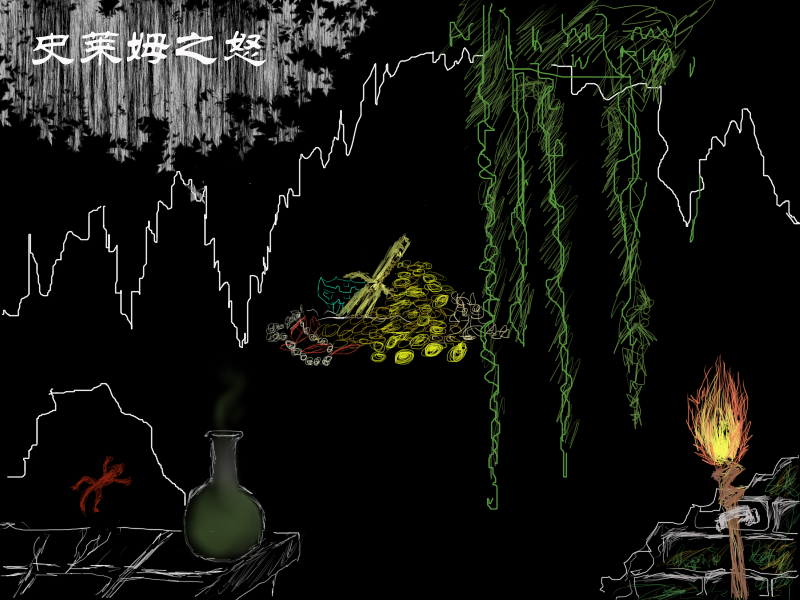
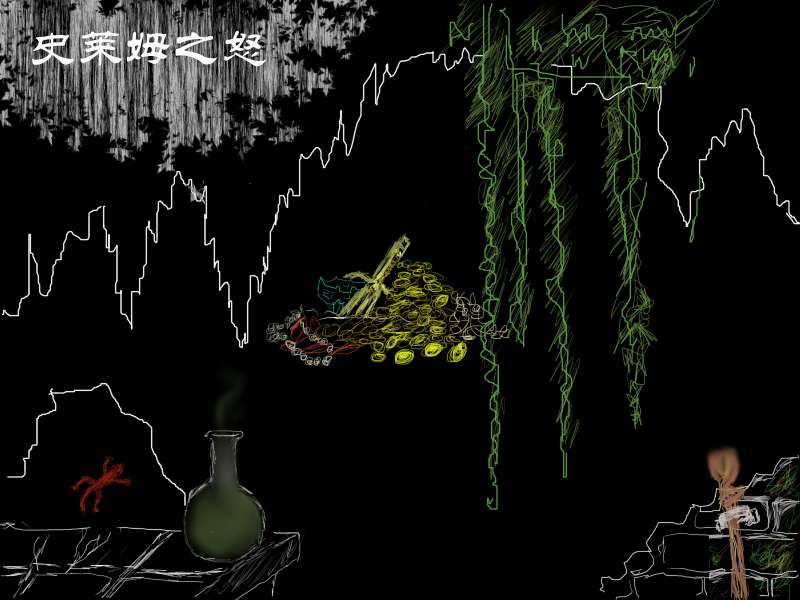
fire

Changed region(s): [[0.8438, 0.6, 0.9375, 0.81], [0.7812, 0.87, 0.875, 1.0]]

diff --git a/core/src/com/slime/game/screen/StartScreen.java b/core/src/com/slime/game/screen/StartScreen.java
@@ -5,24 +5,21 @@ import com.badlogic.gdx.Screen;
 import com.badlogic.gdx.graphics.Texture;
 import com.badlogic.gdx.graphics.g2d.ParticleEffect;
 import com.badlogic.gdx.graphics.g2d.ParticleEffectPool;
-import com.badlogic.gdx.graphics.g2d.SpriteBatch;
 import com.badlogic.gdx.graphics.g2d.TextureAtlas;
 import com.badlogic.gdx.scenes.scene2d.Stage;
 import com.badlogic.gdx.scenes.scene2d.ui.Image;
 import com.badlogic.gdx.scenes.scene2d.ui.ImageButton;
 import com.badlogic.gdx.scenes.scene2d.utils.TextureRegionDrawable;
+import com.slime.game.actor.ParticleActor;
 
 public class StartScreen implements Screen{
 	private Stage stage;
 	private TextureAtlas atlas_button;
 	private ImageButton ib_start;
 	private Image background;
-	private float scalewidth=1.0f,scaleheight=1.0f;
-	public static final float W = 800;
-	public static final float H = 600;
 	private ParticleEffect effect;
 	private ParticleEffectPool effectPool;
-	private SpriteBatch spriteBatch;
+	private ParticleActor torch;
 
 	@Override
 	public void show() {
@@ -30,35 +27,30 @@ public class StartScreen implements Screen{
 		TextureRegionDrawable imageUp = new TextureRegionDrawable(atlas_button.findRegion("button_start_normal"));
 		TextureRegionDrawable imageDown = new TextureRegionDrawable(atlas_button.findRegion("button_start_pressed"));
 		ib_start = new ImageButton(imageUp, imageDown);
-		ib_start.setPosition((Gdx.graphics.getWidth()/2-75)*scalewidth, 100*scaleheight);
+		ib_start.setPosition(Gdx.graphics.getWidth()/2-75, 100);
 		background = new Image(new Texture(Gdx.files.internal("images/start_bg.png")));
 		stage = new Stage();
 		Gdx.input.setInputProcessor(stage);
 		stage.addActor(background);
 		stage.addActor(ib_start);
-		spriteBatch = new SpriteBatch();
 		effect = new ParticleEffect();
-//		effect.load(Gdx.files.internal("fire.p"),Gdx.files.internal("images/fire.png"));
-		effect.setEmittersCleanUpBlendFunction(false);
-		effect.setPosition(600, 100);
+		effect.load(Gdx.files.internal("data/fire.p"),Gdx.files.internal("images"));
 		effectPool = new ParticleEffectPool(effect, 1, 2);
+		torch = new ParticleActor(effect);
+		stage.addActor(torch);
+		torch.startEffect();
+		torch.setPosition(725, 135);
 	}
 
 	@Override
 	public void render(float delta) {
 		stage.act(Gdx.graphics.getDeltaTime());
 		stage.draw();
-		spriteBatch.begin();
-		effect.draw(spriteBatch);
-		spriteBatch.end();
-		
 	}
 
 	@Override
 	public void resize(int width, int height) {
-		scalewidth = ((float)width)/W;
-		scaleheight = ((float)height)/H;
-		
+		stage.getViewport().update(width, height);
 	}
 
 	@Override
